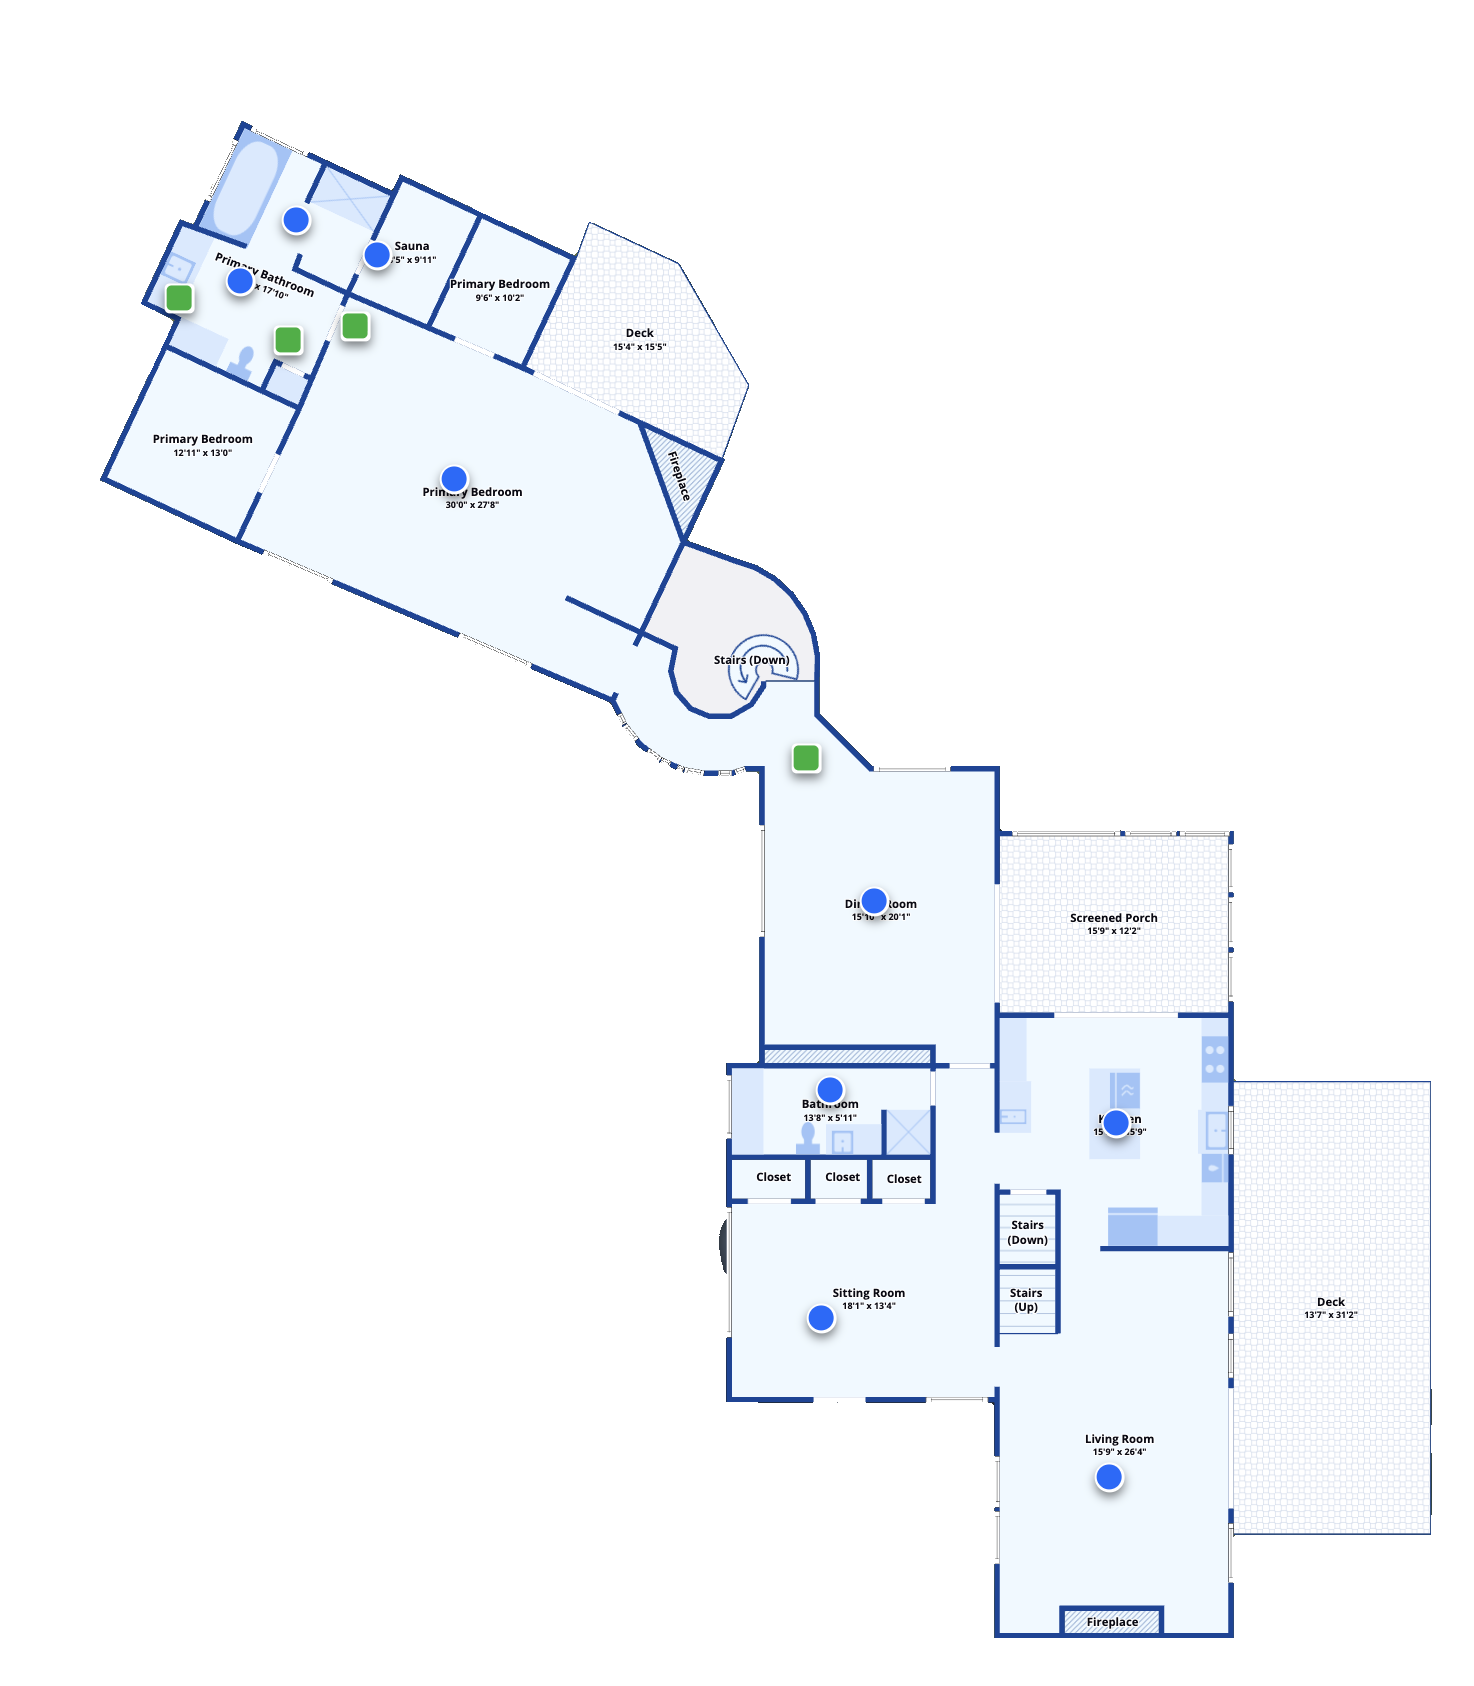
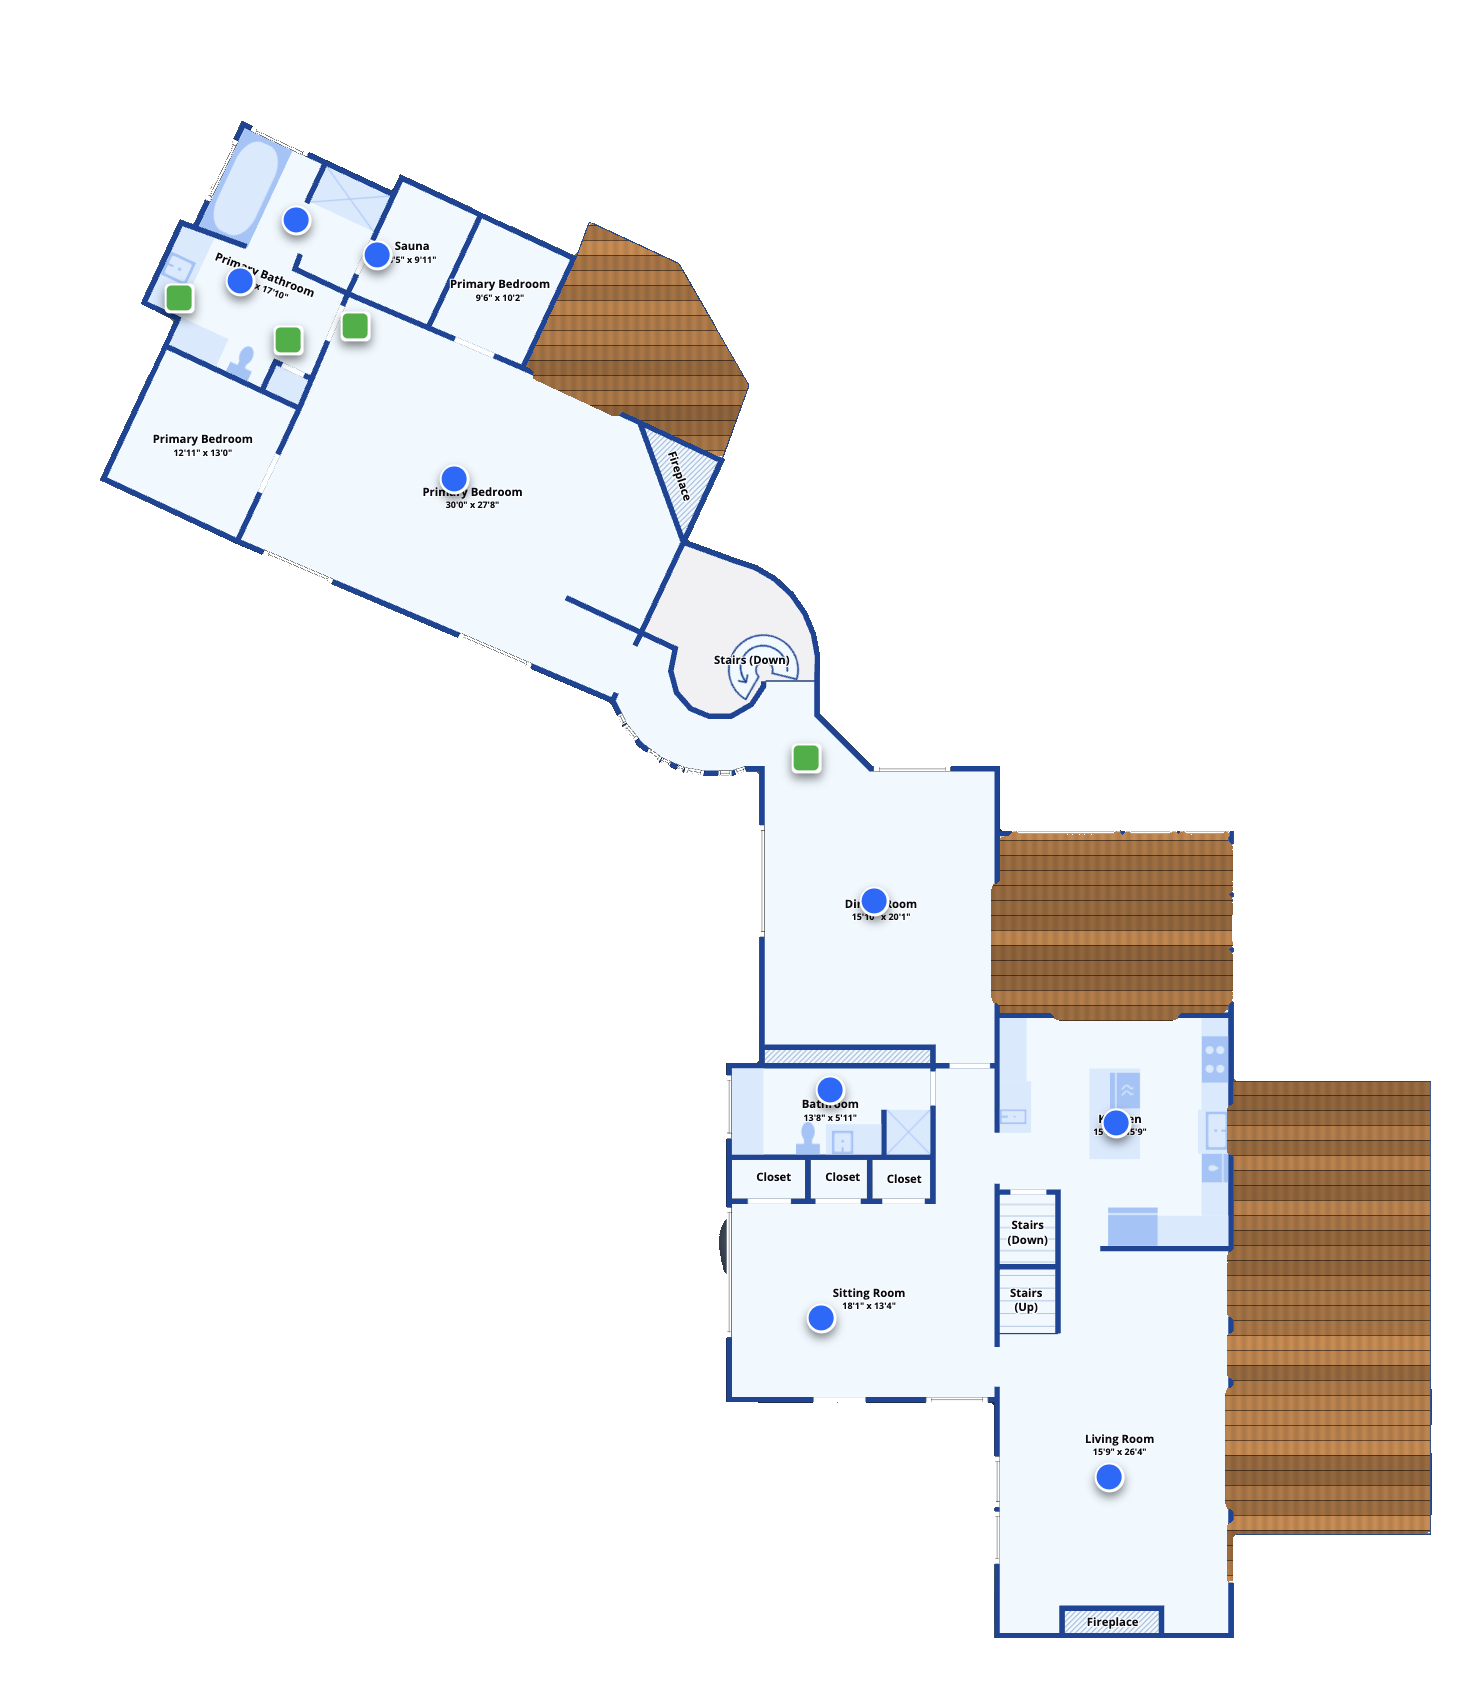
Add wood-plank decks and exterior windows
- Repaint the hatched deck/porch regions of the plans as wood plank flooring
- Detect window openings on exterior walls and render glass panes with
  sills and headers (windows.json + 3D build)

Changed region(s): [[0.8114, 0.6168, 0.9674, 0.9253], [0.6554, 0.4935, 0.8426, 0.6168], [0.3433, 0.1234, 0.5305, 0.2776]]

diff --git a/index.html b/index.html
@@ -867,6 +867,37 @@ function buildPlanFloor(k, p){
 }
 Object.entries(PLANS).forEach(([k,p])=>buildPlanFloor(k,p));
 
+// ---- exterior windows (glass panes with sill + header) from windows.json ----
+const planWindows = {};   // level key -> THREE.Group
+const glassMat = new THREE.MeshStandardMaterial({color:'#bcd6e8', roughness:.08, metalness:.0, transparent:true, opacity:.34});
+const SILL_H = 2.4, HEAD_H = 6.9;   // glass runs sill..header; wall below and above
+fetch('windows.json').then(r=>r.json()).then(WIN=>{
+  Object.entries(WIN).forEach(([k, rects])=>{
+    const p = PLANS[k]; if(!p) return;
+    const grp = new THREE.Group();
+    rects.forEach(([x0,y0,x1,y1])=>{
+      const A = pxToPlan(p, x0, y0), B = pxToPlan(p, x1, y1);
+      const cx=(A[0]+B[0])/2, cz=(A[1]+B[1])/2;
+      let w=Math.abs(B[0]-A[0])+0.6, d=Math.abs(B[1]-A[1])+0.6;
+      w=Math.max(w,1.0); d=Math.max(d,1.0);
+      // glass
+      const glass=new THREE.Mesh(new THREE.BoxGeometry(w, HEAD_H-SILL_H, d), glassMat);
+      glass.position.set(cx, SLAB+(SILL_H+HEAD_H)/2, cz);
+      grp.add(glass);
+      // sill (below) + header (above), opaque wall color
+      const sill=new THREE.Mesh(new THREE.BoxGeometry(w, SILL_H, d), imgWallMat);
+      sill.position.set(cx, SLAB+SILL_H/2, cz); sill.castShadow=sill.receiveShadow=true;
+      const head=new THREE.Mesh(new THREE.BoxGeometry(w, WALLH_IMG-HEAD_H, d), imgWallMat);
+      head.position.set(cx, SLAB+(HEAD_H+WALLH_IMG)/2, cz); head.castShadow=head.receiveShadow=true;
+      grp.add(sill); grp.add(head);
+    });
+    grp.visible = false;
+    levelGroups[p.level].add(grp);
+    planWindows[k] = grp;
+  });
+  if(overlayOn) setOverlay(true);
+});
+
 // hand-traced structure hides entirely in overlay; the plan drawing + its
 // extruded walls become the model, so it matches the floorplan exactly.
 const handMats = ()=>[wallMat, wallMat2, railMat, stepMat, brickMat, ...Object.values(fxMat)];
@@ -875,6 +906,7 @@ function setOverlay(on){
   overlayOn = on;
   Object.values(planMeshes).forEach(o=>o.mesh.visible = on && levelGroups[o.cfg.level].visible);
   Object.entries(planWalls).forEach(([k,inst])=>{ inst.visible = on && levelGroups[PLANS[k].level].visible; });
+  Object.entries(planWindows).forEach(([k,g])=>{ g.visible = on && levelGroups[PLANS[k].level].visible; });
   slabMeshes.forEach(s=>s.visible = !on);
   handMats().forEach(m=>{ m.transparent = on || m.transparent; m.opacity = on?0:1; m.depthWrite = !on; });
   edgeMat.opacity = on ? 0 : 0.35;   // hide the traced walls' edge outlines in overlay